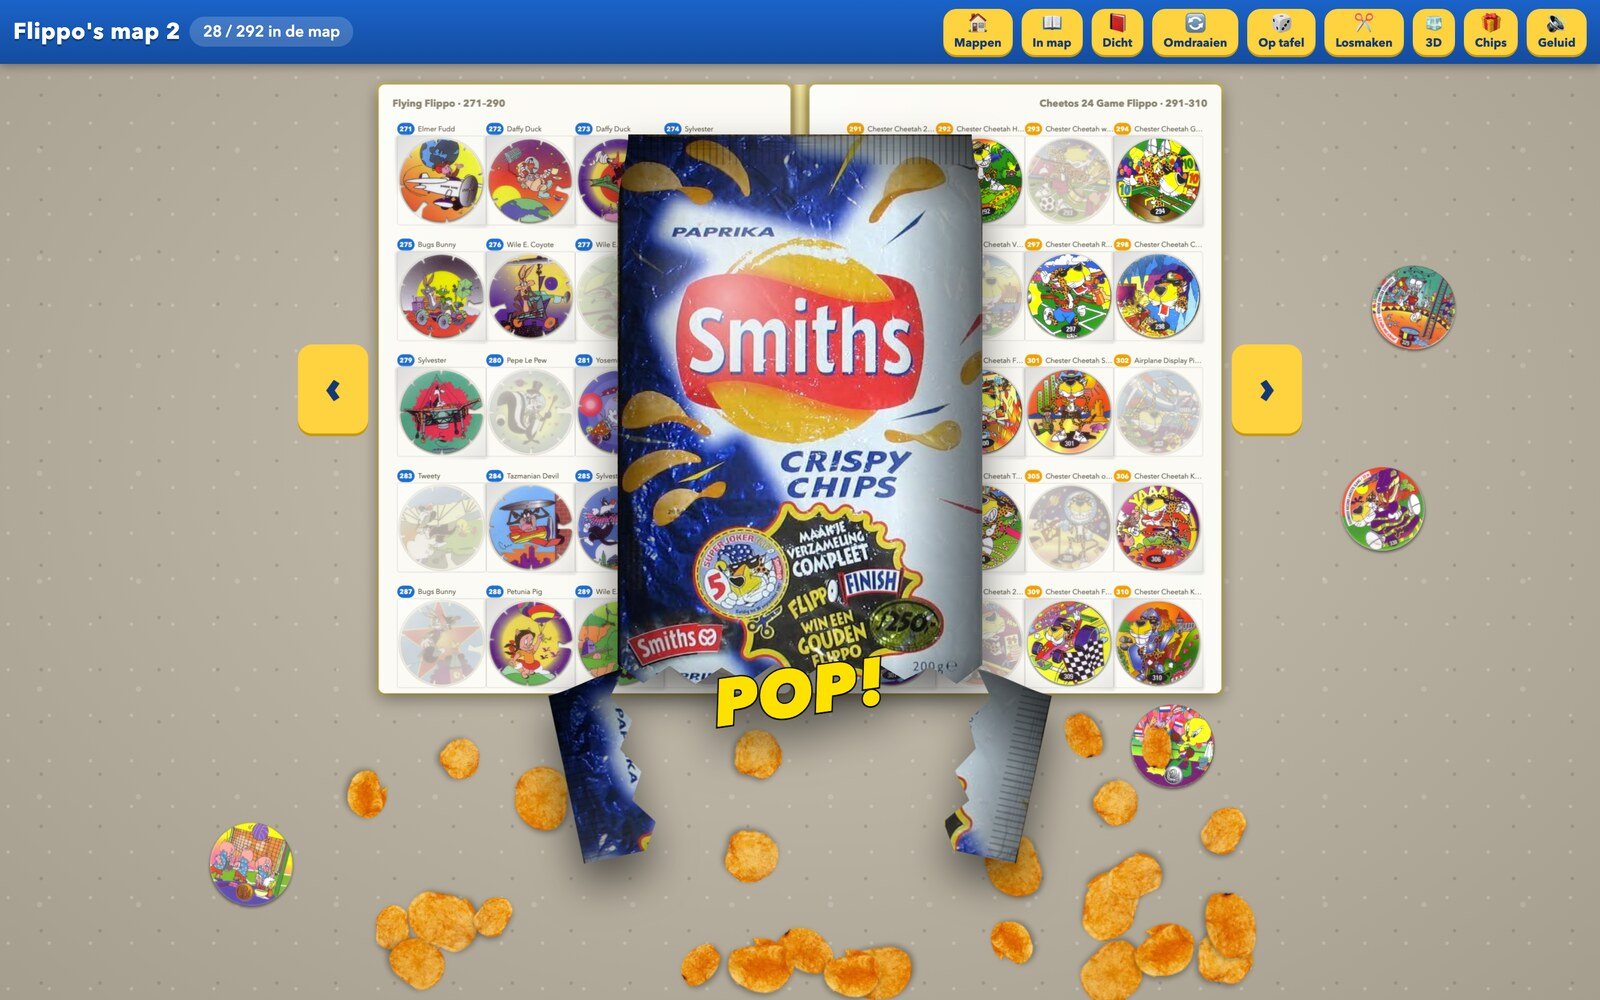
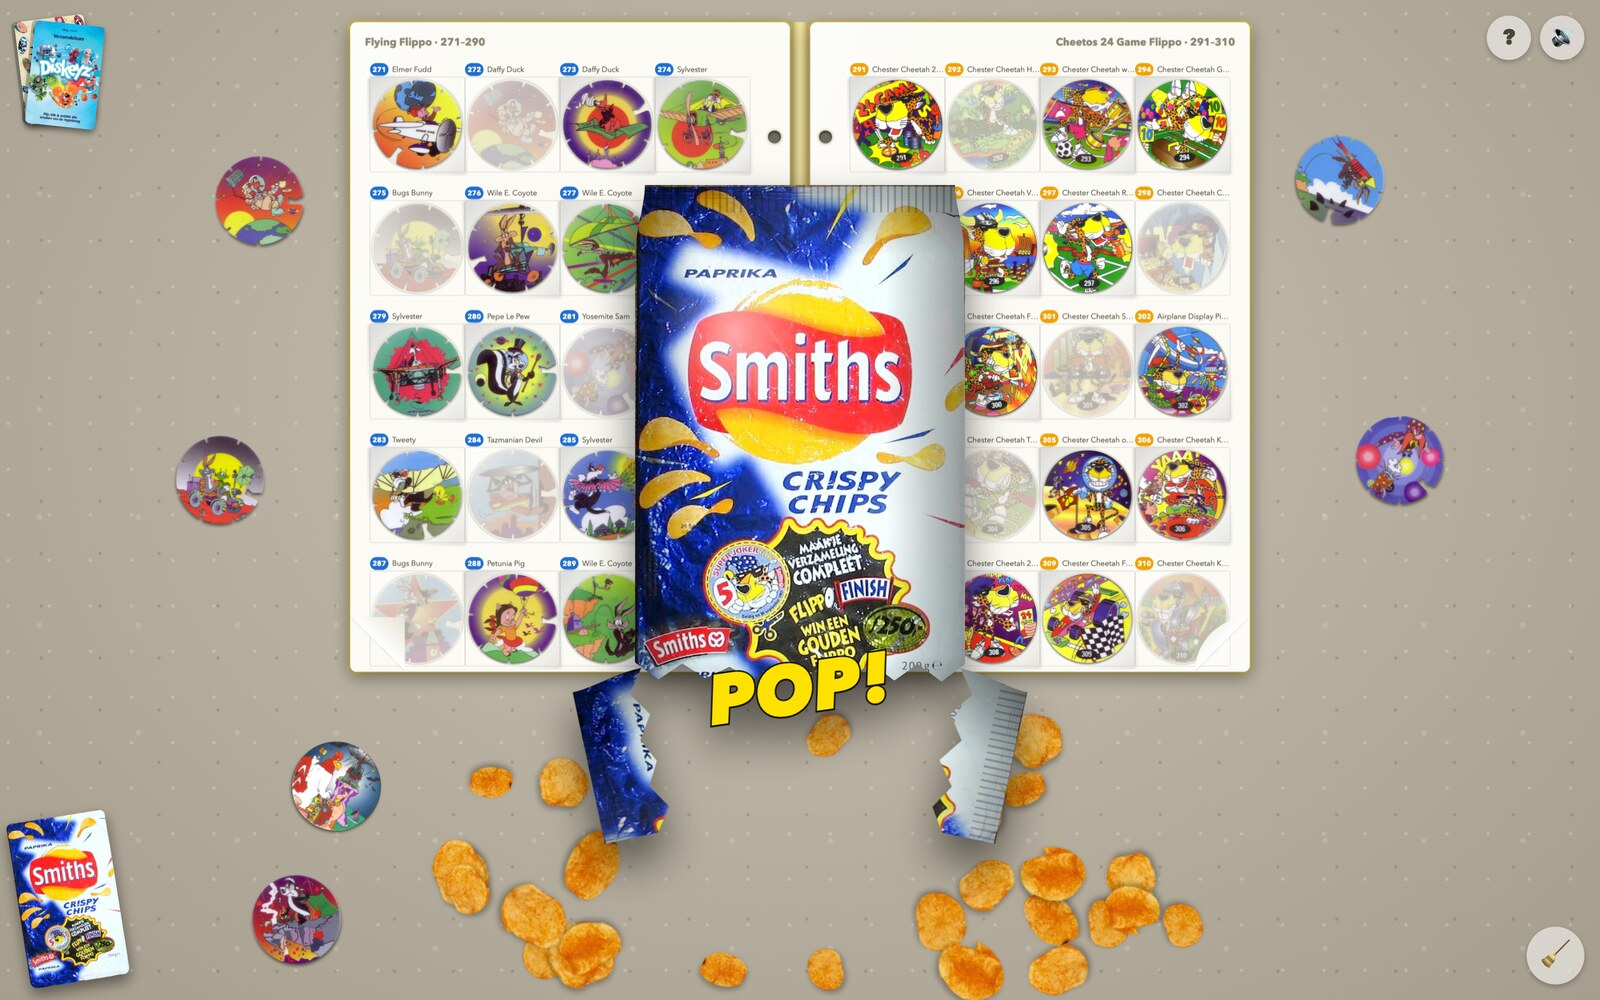
Nieuwe README en screenshots, disclaimer, GitHub-link en hover-animaties
- README herschreven met elf nieuwe screenshots van de versie zonder knoppenbalk
- Disclaimer in het mappenoverzicht en de uitlegkaart
- Link naar de broncode op GitHub
- Levendiger hover op het zakje en het stapeltje mappen
- .env in .gitignore

diff --git a/style.css b/style.css
@@ -1181,3 +1181,30 @@ body.intro .obj { transition: none; }
   pointer-events: none;
 }
 .pack.open .pk-deco { opacity: 0; }
+
+/* ---------- disclaimer ---------- */
+.disclaimer { margin: 0; font-size: 11.5px; line-height: 1.4; color: #5a5344; text-align: center; max-width: 620px; }
+#chooser .disclaimer { position: relative; z-index: 3; padding: 7px 14px; border-radius: 12px; background: rgba(240, 235, 222, .92); transition: opacity .4s; }
+#chooser.fadeout .disclaimer { opacity: 0; }
+.help-card small.disclaimer { display: block; margin-top: 10px; font-weight: 400; color: #8a8372; font-size: 10.5px; }
+
+/* ---------- hover: zakje schudt, stapeltje mappen waaiert uit ---------- */
+@media (hover: hover) {
+  #btn-pack:hover {
+    animation: packshake .55s ease-in-out infinite;
+    filter: drop-shadow(0 12px 10px rgba(0, 0, 0, .45)) brightness(1.08);
+  }
+  @keyframes packshake {
+    0%, 100% { transform: translateY(-10px) rotate(-9deg) scale(1.14); }
+    25% { transform: translateY(-16px) rotate(-17deg) scale(1.16); }
+    50% { transform: translateY(-8px) rotate(-3deg) scale(1.14); }
+    75% { transform: translateY(-15px) rotate(-13deg) scale(1.16); }
+  }
+  #btn-home i { transition: transform .28s cubic-bezier(.3, 1.7, .5, 1), box-shadow .28s; }
+  #btn-home:hover { transform: scale(1.12); }
+  #btn-home:hover i { transform: translate(-7px, 2px) rotate(-16deg); box-shadow: 0 8px 10px rgba(0, 0, 0, .4), -3px 0 0 rgba(0, 0, 0, .2); }
+  #btn-home:hover i + i { transform: translate(24px, 6px) rotate(15deg); animation: homepeek .8s ease-in-out .28s infinite; }
+  @keyframes homepeek { 50% { transform: translate(27px, 1px) rotate(19deg); } }
+}
+
+.disclaimer a { color: #143a75; font-weight: 700; white-space: nowrap; }

diff --git a/index.html b/index.html
@@ -4,7 +4,7 @@
 <meta charset="utf-8">
 <meta name="viewport" content="width=device-width, initial-scale=1, maximum-scale=1, user-scalable=no">
 <title>Flippo's</title>
-<link rel="stylesheet" href="style.css?v=42">
+<link rel="stylesheet" href="style.css?v=46">
 </head>
 <body>
 <main id="table">
@@ -21,6 +21,7 @@
     <h2>Zo speel je</h2>
     <ul class="help-list"></ul>
     <p>Tik om te beginnen</p>
+    <small class="disclaimer">Dit is een hobbyproject voor de lol en geen officieel product. Het is niet van, en niet verbonden met, Smiths, Albert Heijn, Disney, Pixar of Warner Bros. (Looney Tunes). Alle namen, figuren en afbeeldingen zijn van hun eigenaren.</small>
   </div>
 </div>
 <div id="view3d">
@@ -32,9 +33,10 @@
 <div id="chooser" hidden>
   <h1>Welke map pak je?</h1>
   <div class="ch-list"></div>
+  <p class="disclaimer">Dit is een hobbyproject voor de lol en geen officieel product. Het is niet van, en niet verbonden met, Smiths, Albert Heijn, Disney, Pixar of Warner Bros. (Looney Tunes). Alle namen, figuren en afbeeldingen zijn van hun eigenaren. <a href="https://github.com/bramdehart/flippos" target="_blank" rel="noopener">Broncode op GitHub</a></p>
 </div>
 <div id="toast"></div>
-<script src="flippos-data.js?v=42"></script>
-<script src="app.js?v=42"></script>
+<script src="flippos-data.js?v=46"></script>
+<script src="app.js?v=46"></script>
 </body>
 </html>

diff --git a/README.md b/README.md
@@ -2,81 +2,91 @@
 
 > Gemaakt voor mijn neefjes, met foto's van eigen map en flippo's. Dit is geen officieel product: Diskeyz is een spaaractie van Albert Heijn met figuren van Disney en Pixar, de flippo's zijn van Smiths met figuren van Warner Bros. De plaatjes van de Smiths-flippo's komen van [milkcapmania.co.uk](https://www.milkcapmania.co.uk/Flippos/).
 
-Een speeltafel vol flippo's in je browser. Kies een map, verzamel ze allemaal, klik ze in elkaar tot een bouwwerk en scheur zelf een nieuw zakje open.
+Een speeltafel vol flippo's in je browser. Pak een map, maak zakjes open, verzamel ze allemaal en klik ze in elkaar tot een bouwwerk.
 
-![Drie mappen om uit te kiezen: Flippo's map 1, Flippo's map 2 en AH Diskeyz](docs/keuze.jpg)
+**Spelen: [flippos.bramdehart.nl](https://flippos.bramdehart.nl)** · Broncode: [github.com/bramdehart/flippos](https://github.com/bramdehart/flippos)
+
+![Drie mappen op tafel om uit te kiezen: Flippo's map 1, Flippo's map 2 en AH Diskeyz](docs/keuze.jpg)
 
 ## Drie mappen
 
-Je kiest eerst welke map je pakt. Elke map bewaart zijn eigen verzameling.
+Je begint bij de tafel met drie mappen. Tik er een aan en hij vliegt naar het midden en slaat open. Elke map bewaart zijn eigen verzameling.
 
 - **Flippo's map 1** – de originele flippo's uit de zakken Smiths-chips, nummer 1 tot en met 250.
 - **Flippo's map 2** – het vervolg, nummer 251 tot en met 545.
 - **AH Diskeyz** – de 30 Diskeyz van Albert Heijn.
 
+## Geen knoppen
+
+Alles doe je met wat er op tafel ligt. De eerste keer krijg je een korte uitleg; het vraagteken rechtsboven laat hem opnieuw zien.
+
+![De uitleg die je de eerste keer ziet](docs/uitleg.jpg)
+
 ## De originele flippo's
 
-De flippo-mappen zijn ringbanden met insteekbladen: twintig vakjes per blad, met achter elk vakje alvast het plaatje dat erin hoort. Je slaat een bladzijde om door hem vast te pakken en opzij te slepen. Pak je een flippo vast, dan slaat de map vanzelf open op het goede blad, en laat je hem los boven zijn vakje, dan schuift hij van boven in het hoesje.
+De flippo-mappen zijn ringbanden met insteekbladen: twintig vakjes per blad, met achter elk vakje alvast het plaatje dat erin hoort. Laat je een flippo los boven zijn vakje, dan schuift hij van boven in het hoesje.
 
 ![Een opengeslagen flippo-map met insteekbladen](docs/flippomap.jpg)
 
+### Bladeren
+
+Een bladzijde sla je zelf om: pak hem vast en sleep hem naar de andere kant. Het blad buigt mee en ritselt. Pak je een flippo vast, dan slaat de map vanzelf open op het goede blad.
+
+![Een bladzijde halverwege het omslaan](docs/omslaan.jpg)
+
 ### Zak chips
 
-Je begint met een lege map. Flippo's krijg je uit een zak chips: knijp in het midden tot de onderkant openscheurt. De chips vallen eruit, samen met vijf flippo's, en meestal zit er een nieuwe tussen.
+Je begint met een lege map. Linksonder ligt een zak chips: tik erop, knijp in het midden en de onderkant scheurt open. De chips vallen eruit, samen met vijf flippo's, en meestal zit er een nieuwe tussen.
 
 ![Een zak Smiths-chips die net is opengepopt](docs/chips.jpg)
 
 ### Bouwen
 
-Sommige flippo's hebben inkepingen in de rand: de Techno-, Strip- en Flying-flippo's. Die kun je in elkaar klikken en daarna in 3D bekijken.
+Sommige flippo's hebben inkepingen in de rand: de Techno-, Strip- en Flying-flippo's. Sleep er twee tegen elkaar en ze klikken vast. Houd het bouwwerk vast om het in 3D te bekijken.
 
 ![Een bouwwerk van Flying-flippo's in 3D](docs/flippo3d.jpg)
 
 ## Diskeyz
 
-Sleep elke Diskey naar zijn eigen vakje in de map. Het vakje licht op zodra je de goede vastpakt. Tik op een Diskey om hem om te draaien: op de achterkant staat de groente of het fruit dat erbij hoort. Sommige glimmen; die herken je aan de glittersticker naast hun vakje.
+Sleep elke Diskey naar zijn eigen vakje. Het vakje licht op zodra je de goede vastpakt. Tik op een Diskey om hem om te draaien: op de achterkant staat de groente of het fruit dat erbij hoort. Sommige glimmen; die herken je aan de glittersticker naast hun vakje.
 
 ![De Diskeyz-map ligt open op tafel, met losse Diskeyz eromheen](docs/map.jpg)
 
-### Bouwen
-
-Elke Diskey heeft acht gleufjes. Sleep er twee tegen elkaar en ze klikken vast. Zo bouw je door tot je een heel bouwwerk hebt, en dat kun je daarna in 3D van alle kanten bekijken.
+Elke Diskey heeft acht gleufjes, dus je kunt ze allemaal in elkaar klikken.
 
 ![Een bouwwerk van Diskeyz, in 3D gedraaid](docs/3d.jpg)
 
-### Zakje openscheuren
-
-Nieuwe Diskeyz nodig? Pak een zakje en scheur het zelf open door over de bovenkant te slepen. Er vallen er drie uit.
+Nieuwe Diskeyz komen uit een zakje dat je aan de bovenkant openscheurt. Er vallen er drie uit.
 
 ![Een half opengescheurd zakje Diskeyz](docs/zakje.jpg)
 
-## De map dichtklappen
+## De map dichtdoen en omdraaien
 
-Klaar met spelen? Sla de kaft dicht door op de eerste bladzijde het linkerblad naar rechts te slepen. Je verzameling blijft veilig binnenin zitten. De dichte map sleep je weer open, of je sleept de andere kant op om hem om te draaien en de achterkant te zien.
+Sleep op de eerste bladzijde het linkerblad naar rechts en de kaft slaat dicht. Je verzameling blijft veilig binnenin zitten. De dichte map sleep je weer open, of je sleept de andere kant op om hem om te draaien.
 
-![De dichtgeklapte Diskeyz-map met de voorkaft](docs/kaft.jpg)
+![Een dichte flippo-map die omdraait](docs/kaft.jpg)
 
 ## Ook op je telefoon
 
-Op een telefoon zie je één bladzijde van de map tegelijk, zodat alles groot genoeg blijft voor je vingers. Een bladzijde sla je om door hem opzij te slepen, en met twee vingers zoom je in op de tafel.
+Op een telefoon zie je één bladzijde tegelijk, zodat alles groot genoeg blijft voor je vingers. Met twee vingers zoom je in op de tafel.
 
-<img src="docs/mobiel.jpg" alt="De Diskeyz-map op een telefoon, met één pagina in beeld" width="300">
+<img src="docs/mobiel.jpg" alt="Een flippo-map op een telefoon, met één bladzijde in beeld" width="300">
 
-## Spelen
-
-Ga naar [flippos.bramdehart.nl](https://flippos.bramdehart.nl). Je spel wordt vanzelf bewaard. Er zijn geen knoppen: alles doe je met de dingen die op tafel liggen. De eerste keer krijg je een korte uitleg, en het vraagteken rechtsboven laat hem opnieuw zien.
+## Alles wat je kunt doen
 
 | Wat je doet | Wat er gebeurt |
 | --- | --- |
-| Slepen | Flippo of bouwwerk verplaatsen |
+| Een flippo slepen | Verplaatsen, of in zijn vakje stoppen |
+| Op een flippo tikken | Omdraaien |
+| Een flippo vasthouden | Groot en in 3D bekijken; bij een bouwwerk het hele bouwwerk |
 | Twee flippo's met gleufjes tegen elkaar slepen | Ze klikken vast |
-| Tikken | Flippo omdraaien |
-| Dubbeltikken | Flippo losmaken uit een bouwwerk |
-| Ingedrukt houden | Flippo of bouwwerk groot en in 3D bekijken |
+| Dubbeltikken op een flippo | Losmaken uit een bouwwerk |
 | Scrollen boven een flippo | Flippo of bouwwerk draaien |
 | Een bladzijde opzij slepen | Bladzijde omslaan |
 | De kaft opzij slepen | Map dichtslaan, openslaan of omdraaien |
-| Knijpen, of ctrl + scrollen | In- en uitzoomen |
 | Tikken op het zakje of de zak chips | Nieuwe flippo's openmaken |
-| Tikken op het stapeltje mappen | Een andere map pakken |
-| Twee keer tikken op de bezem | Alle losse flippo's van tafel vegen |
+| Tikken op het stapeltje mappen | Terug naar de tafel met de drie mappen |
+| Twee keer tikken op de bezem | Alle losse flippo's van tafel vegen; de map blijft |
+| Knijpen, of ctrl + scrollen | In- en uitzoomen |
+
+Je spel wordt vanzelf bewaard in je browser.
